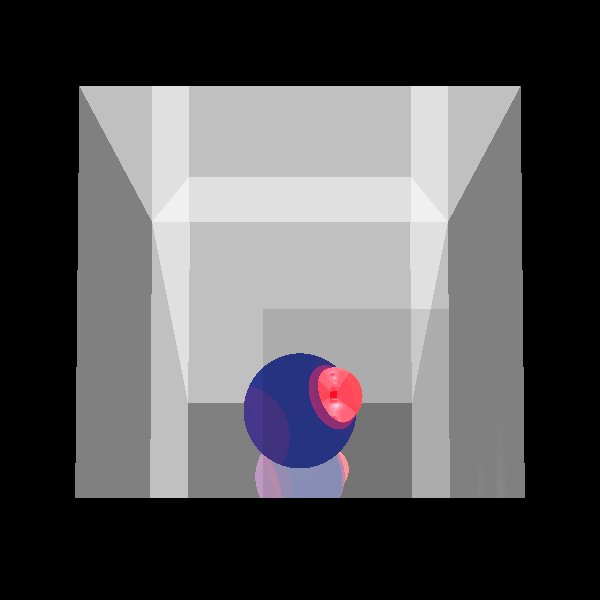
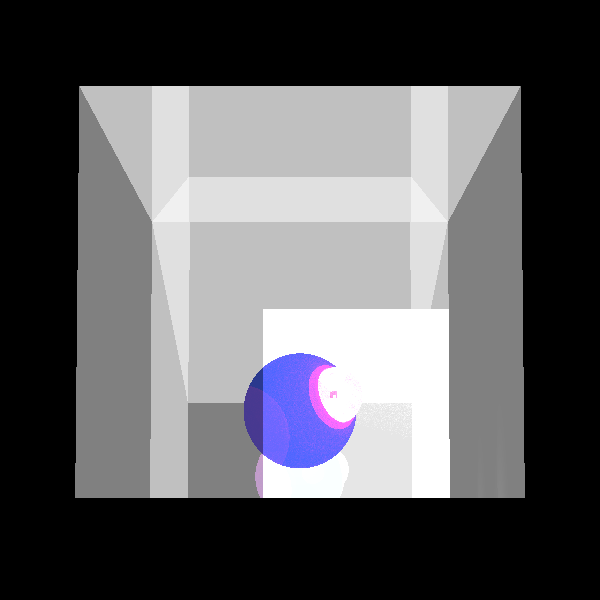
Stage 8: start 2

Changed region(s): [[0.42, 0.51, 0.75, 0.84]]

diff --git a/src/renderer/RayTracerBasic.java b/src/renderer/RayTracerBasic.java
@@ -1,11 +1,15 @@
 package renderer;
 
 
+import geometries.Plane;
 import lighting.LightSource;
 import primitives.*;
 import scene.Scene;
 
+import java.util.LinkedList;
 import java.util.List;
+import java.util.Random;
+
 import geometries.Intersectable.GeoPoint;
 
 import static primitives.Util.alignZero;
@@ -172,6 +176,22 @@ public class RayTracerBasic extends RayTracerBase {
     }
 
 
+    private List<Ray> Beam(GeoPoint geoPoint ,Ray ray , double angel){
+        List<Ray> rays = new LinkedList<>();
+        Random random = new Random();
+        Vector up = ray.getDir().perpendicular();
+        Vector right = up.crossProduct(ray.getDir());
+        for (int i = 0 ; i < angel/1.5 ; i++)
+        {
+            Vector displacement = up.scale(random.nextDouble(-angel, angel)).add(right.scale(random.nextDouble(-angel, angel)));
+            Point point = shiptPoint(geoPoint,ray.getDir()).add(displacement);
+            Vector v = point.subtract(ray.getP0());
+            rays.add(new Ray(ray.getP0(),v));
+        }
+        return rays;
+    }
+
+
     /**
      * Calculates the color contribution from global effects (reflection and refraction) at a given intersection point.
      *
@@ -197,15 +217,26 @@ public class RayTracerBasic extends RayTracerBase {
             // Construct the refracted ray based on the intersection point and incoming ray.
             Ray refractedRay = constructRefractedRay(gp, inRay);
 
+
+
             // Find the closest intersection point for the refracted ray.
             GeoPoint refractedPoint = findClosestIntersection(refractedRay);
 
             // Check if a valid intersection point exists.
             if (refractedPoint != null) {
-                // Calculate the color at the refracted intersection point, considering global effects recursively.
-                // The calcColor method takes the refracted intersection point, refracted ray, updated level, and kkt coefficient as parameters.
-                // It returns the color calculated based on the local and global effects at the refracted point.
-                color = color.add(calcColor(refractedPoint, refractedRay, level - 1, kkt).scale(kt));
+                if (mat.blurAngle >0) {
+                    List<Ray> rays = Beam(gp, refractedRay, mat.blurAngle);
+                    for (Ray ray : rays) {
+                        color = color.add(calcColor(refractedPoint, ray, level, kkt).scale(kt));
+                    }
+                    color = color.reduce(rays.size());
+                }
+
+                    // Calculate the color at the refracted intersection point, considering global effects recursively.
+                    // The calcColor method takes the refracted intersection point, refracted ray, updated level, and kkt coefficient as parameters.
+                    // It returns the color calculated based on the local and global effects at the refracted point.
+                    color = color.add(calcColor(refractedPoint, refractedRay, level - 1, kkt).scale(kt));
+
             }
         }
 
@@ -223,10 +254,19 @@ public class RayTracerBasic extends RayTracerBase {
 
             // Check if a valid intersection point exists.
             if (reflectedPoint != null) {
+                if (mat.glossMeasure > 0) {
+                    List<Ray> rays = Beam(gp, reflectedRay, mat.glossMeasure);
+                    for (Ray ray : rays) {
+                        color = color.add(calcColor(reflectedPoint, ray, level, kkr).scale(kr));
+                    }
+                    color = color.reduce(rays.size());
+                }
+
                 // Calculate the color at the reflected intersection point, considering global effects recursively.
                 // The calcColor method takes the reflected intersection point, reflected ray, updated level, and kkr coefficient as parameters.
                 // It returns the color calculated based on the local and global effects at the reflected point.
                 color = color.add(calcColor(reflectedPoint, reflectedRay, level - 1, kkr).scale(kr));
+
             }
         }
 

diff --git a/unitTests/renderer/ReflectionRefractionTests.java b/unitTests/renderer/ReflectionRefractionTests.java
@@ -597,7 +597,7 @@ public class ReflectionRefractionTests {
               new Sphere(
                       new Point(12, 4, -50), 10d)
                       .setEmission(new Color(RED))
-                      .setMaterial(new Material().setKd(0.7).setKs(0.3).setKr(0.5).setShininess(100).setKt(0.3).setGlossMeasure(2))
+                      .setMaterial(new Material().setKd(0.7).setKs(0.3).setKr(0.5).setShininess(100).setKt(0.3).setGlossMeasure(20))
               ,
               new Polygon(
                new Point(-10.0, -70.0, 200.0),
@@ -611,7 +611,7 @@ public class ReflectionRefractionTests {
                                       .setKd(0.4)
                                       .setKs(0.2)
                                       .setShininess(20)
-                                      .setKt(0.9).setBlurAngle(20)
+                                      .setKt(0.9).setBlurAngle(40)
                                       )
 
       );

diff --git a/src/primitives/Vector.java b/src/primitives/Vector.java
@@ -1,7 +1,5 @@
 package primitives;
 
-import java.util.IllegalFormatCodePointException;
-
 /**
  * This class represents a vector in a three-dimensional space.
  * It extends the {@link Point} class, which means it has x, y, and z coordinates.
@@ -118,5 +116,11 @@ public class Vector extends Point {
         return "Vector{" +
                 "v =" + xyz +
                 '}';
+    }
+
+    public Vector perpendicular()
+    {
+        // (x ,y, z)*(-y ,x ,0) = x*-y + y*x +0*z = 0
+        return new Vector(this.xyz.d2*-1,this.xyz.d1,0);
     }
 }
